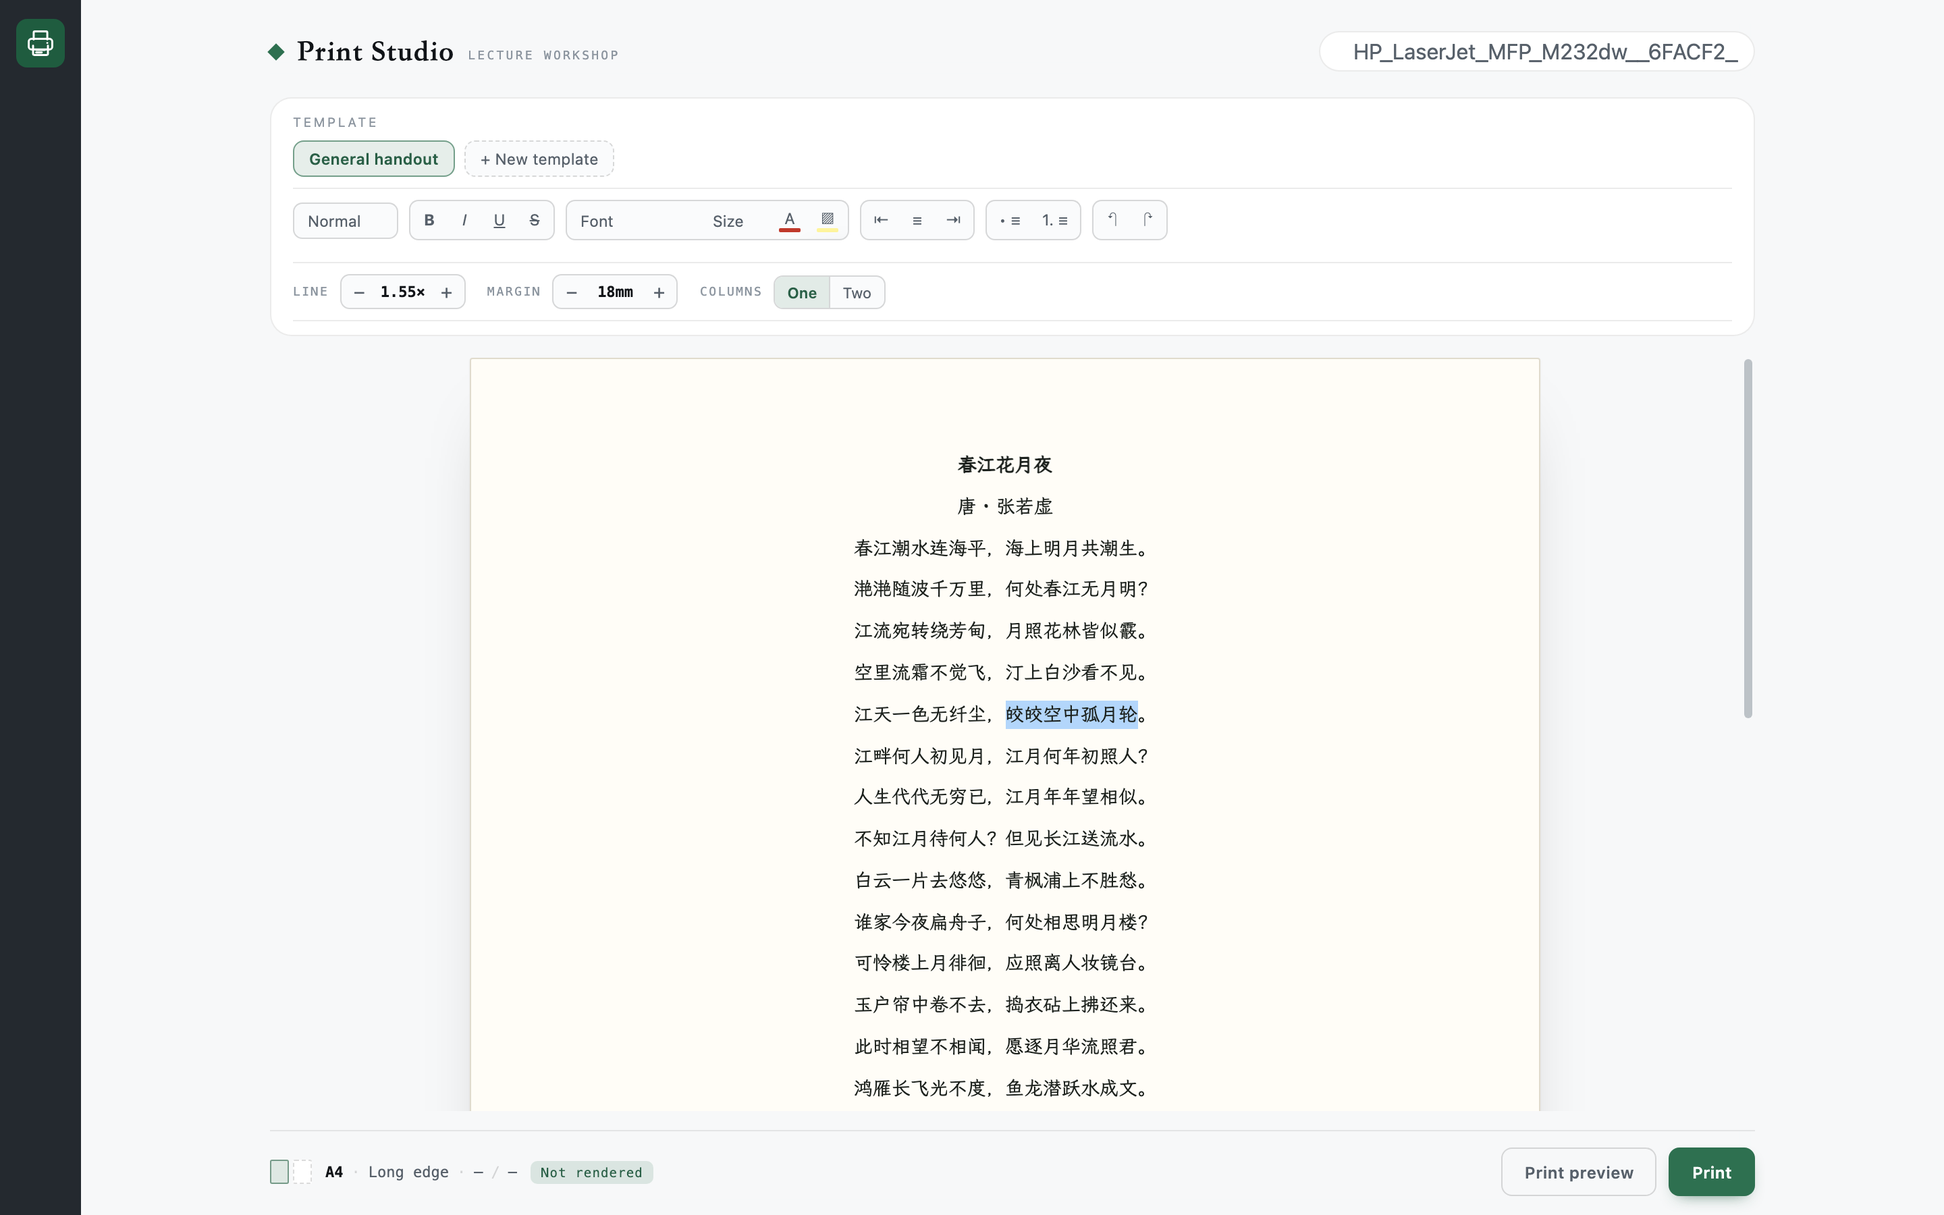
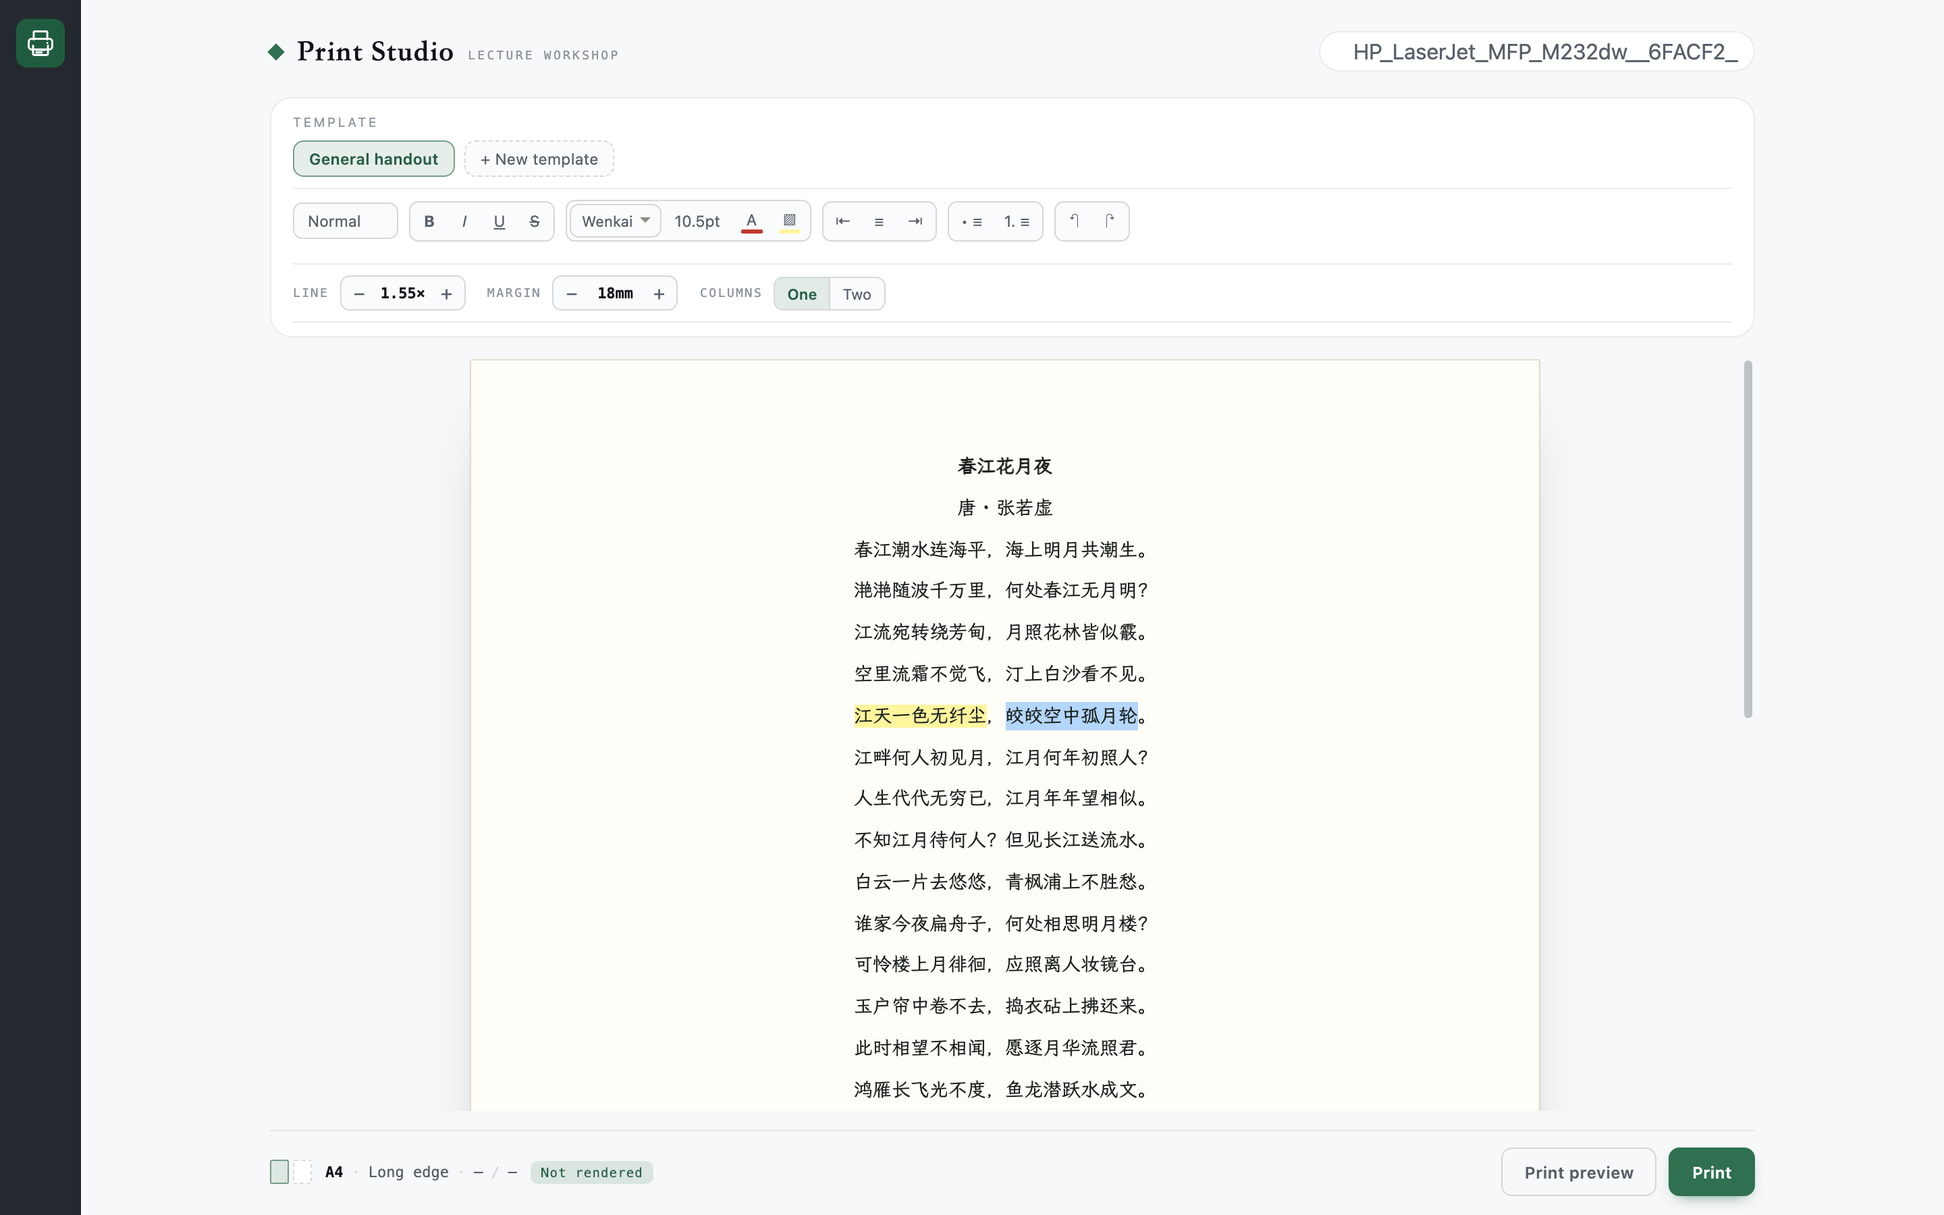
fix: show current font and size in the merged format controls
- font picker now shows the active font and renders each option in its own typeface
- size select shows the current pt; both apply to the selection when present, else the document default
- allow the popover group to overflow so the font and swatch popovers are no longer clipped
- refresh zh/en screenshots and README wording; add design note

diff --git a/lib/client.js b/lib/client.js
@@ -551,6 +551,31 @@ window.__ModuleLoader__.load({
       }
     }
 
+    /** 归一化 font-family 列表，用于把计算样式映射回预设字体键。 */
+    function normalizeFamilyList(families) {
+      return String(families ?? "")
+        .toLowerCase()
+        .replace(/["']/g, "")
+        .replace(/\s*,\s*/g, ",")
+        .replace(/\s+/g, " ")
+        .trim();
+    }
+
+    /**
+     * 把 getComputedStyle().fontFamily 映射回某个预设字体键；对不上就返回第一个家族名。
+     * @param {string} families
+     * @returns {string} 预设键（wenkai/song/kaiti/system）或具体家族名
+     */
+    function matchPresetFont(families) {
+      const norm = normalizeFamilyList(families);
+      if (!norm) return "";
+      for (const key of ["wenkai", "song", "kaiti", "system"]) {
+        if (norm === normalizeFamilyList(paperFontStack(key))) return key;
+      }
+      const first = String(families ?? "").split(",")[0].replace(/["']/g, "").trim();
+      return first || "";
+    }
+
     /* ============================== 富文本转义引擎 ============================== */
 
     /**
@@ -1075,6 +1100,8 @@ window.__ModuleLoader__.load({
   border: 1px solid var(--dsw-alias-border-l2); border-radius: 7px;
   background: var(--dsw-alias-bg-layer-2); overflow: hidden; padding: 2px;
 }
+/* 含浮层（字体下拉、色板）的分组不能裁切，否则浮层会被组边框剪掉 */
+.ddoc-ribbon-grp--pop { overflow: visible; }
 .ddoc-ribbon-btn {
   appearance: none; border: 0; background: none; cursor: pointer; user-select: none;
   padding: 4px 7px; border-radius: 5px; font-size: 11.5px; line-height: 1.2;
@@ -1853,7 +1880,7 @@ window.__ModuleLoader__.load({
         );
       }
 
-      function FontPicker({ value, onChange, options, aliases }) {
+      function FontPicker({ value, onChange, options, aliases, presets = [] }) {
         const [open, setOpen] = useState(false);
         const [filter, setFilter] = useState("");
         const [active, setActive] = useState(0);
@@ -1893,6 +1920,13 @@ window.__ModuleLoader__.load({
 
         const filtered = useMemo(() => options.filter((name) => matches(name)), [options, matches]);
 
+        // 最近使用里可能残留旧的预设键，预设单独成节渲染，这里过滤掉避免重复
+        const recentList = useMemo(() => recent.filter((name) => !presets.includes(name)), [recent, presets]);
+        const showExtras = !filter;
+        const baseOffset = showExtras
+          ? (presets.length > 0 ? 1 + presets.length : 0) + (recentList.length > 0 ? 2 + recentList.length : 0)
+          : 0;
+
         // 键盘选中项越界时回到首行
         useEffect(() => {
           setActive((current) => (current < filtered.length ? current : 0));
@@ -1916,7 +1950,7 @@ window.__ModuleLoader__.load({
         const commit = (name) => {
           if (!name) return;
           onChange(name);
-          saveRecent(name);
+          if (!presets.includes(name)) saveRecent(name);
           close();
         };
 
@@ -1986,29 +2020,50 @@ window.__ModuleLoader__.load({
                   },
                   onKeyDown,
                 }),
-                filtered.length === 0
+                filtered.length === 0 && (filter || presets.length === 0)
                   ? h("div", { className: "ddoc-font-empty" }, t("font.noMatch"))
                   : h(
                       "ul",
                       { className: "ddoc-font-list", ref: listRef },
-                      !filter && recent.length > 0
+                      showExtras && presets.length > 0
+                        ? [
+                            h("li", { key: "header-preset", className: "ddoc-font-header" }, t("font.presetGroup")),
+                            ...presets.map((name) =>
+                              h(
+                                "li",
+                                {
+                                  key: `preset:${name}`,
+                                  "data-font-key": name,
+                                  className: [value === name ? "on" : ""].filter(Boolean).join(" "),
+                                  title: t(`font.${name}`),
+                                  onClick: () => commit(name),
+                                },
+                                h(
+                                  "span",
+                                  { className: "ddoc-font-name", style: { fontFamily: paperFontStack(name) } },
+                                  t(`font.${name}`),
+                                ),
+                              ),
+                            ),
+                          ]
+                        : null,
+                      showExtras && recentList.length > 0
                         ? [
                             h("li", { key: "header-recent", className: "ddoc-font-header" }, t("font.recent")),
-                            ...recent.map((name, i) => {
+                            ...recentList.map((name, i) => {
                               const hint = hintOf(name);
-                              const idx = i;
                               return h(
                                 "li",
                                 {
                                   key: name,
-                                  className: [name === value ? "on" : "", idx === active ? "active" : ""]
+                                  className: [name === value ? "on" : "", i === active ? "active" : ""]
                                     .filter(Boolean)
                                     .join(" "),
                                   title: hint ? `${name} · ${hint}` : name,
-                                  onMouseEnter: () => setActive(idx),
+                                  onMouseEnter: () => setActive(i),
                                   onClick: () => commit(name),
                                 },
-                                h("span", { className: "ddoc-font-name" }, name),
+                                h("span", { className: "ddoc-font-name", style: { fontFamily: paperFontStack(name) } }, name),
                                 hint ? h("span", { className: "ddoc-font-hint" }, hint) : null,
                               );
                             }),
@@ -2017,7 +2072,7 @@ window.__ModuleLoader__.load({
                         : null,
                       filtered.map((name, index) => {
                         const hint = hintOf(name);
-                        const actualIndex = !filter && recent.length > 0 ? index + recent.length + 2 : index;
+                        const actualIndex = baseOffset + index;
                         return h(
                           "li",
                           {
@@ -2029,7 +2084,7 @@ window.__ModuleLoader__.load({
                             onMouseEnter: () => setActive(actualIndex),
                             onClick: () => commit(name),
                           },
-                          h("span", { className: "ddoc-font-name" }, name),
+                          h("span", { className: "ddoc-font-name", style: { fontFamily: paperFontStack(name) } }, name),
                           hint ? h("span", { className: "ddoc-font-hint" }, hint) : null,
                         );
                       }),
@@ -2235,6 +2290,9 @@ window.__ModuleLoader__.load({
       const lastRangeRef = useRef(null);
       const [hasSelection, setHasSelection] = useState(false);
       const [fmtState, setFmtState] = useState({ bold: false, italic: false, underline: false, strike: false });
+      /** 选区起始处的当前字体（预设键或家族名）与字号（pt），用于字体/字号控件显示当前值。 */
+      const [currentFont, setCurrentFont] = useState("");
+      const [currentSize, setCurrentSize] = useState(null);
       /** 预览页高度按容器实测，保证 A4 比例且不溢出。 */
       const [pvSheetH, setPvSheetH] = useState(0);
 
@@ -2319,6 +2377,15 @@ window.__ModuleLoader__.load({
           if (inside && !r.isCollapsed) {
             lastRangeRef.current = r.cloneRange();
             setHasSelection(true);
+            // 读选区起始处的字体/字号，让控件显示当前值
+            let node = r.startContainer;
+            if (node && node.nodeType === 3) node = node.parentElement;
+            if (node && node.nodeType === 1) {
+              const cs = window.getComputedStyle(node);
+              setCurrentFont(matchPresetFont(cs.fontFamily));
+              const pxSize = parseFloat(cs.fontSize);
+              setCurrentSize(Number.isFinite(pxSize) ? Math.round(pxSize * 0.75 * 2) / 2 : null);
+            }
           } else if (inside) {
             setHasSelection(false);
           }
@@ -2732,6 +2799,13 @@ window.__ModuleLoader__.load({
       const lineHeight = styleDraft?.lineHeight ?? activeTemplate?.lineHeight ?? 1.55;
       const columns = styleDraft?.columns ?? activeTemplate?.columns ?? 1;
 
+      /** 字体/字号控件显示值：有选区显示选区当前值，否则显示整篇默认。 */
+      const fontDisplayValue = hasSelection && currentFont ? currentFont : (styleDraft?.font ?? "wenkai");
+      const sizeDisplayValue = hasSelection && currentSize ? currentSize : (styleDraft?.fontSize ?? fontSize);
+      const sizeOptionValues = Array.from(
+        new Set([...SELECTION_FONT_SIZES, sizeDisplayValue].filter((n) => Number.isFinite(n))),
+      ).sort((a, b) => a - b);
+
       const openZoom = useCallback((preview) => {
         setZoom({ page: preview.page, dataUrl: preview.dataUrl });
       }, []);
@@ -2984,54 +3058,36 @@ window.__ModuleLoader__.load({
                     // 2.5 字符格式：有选区时改选中文字，没有选区时改整篇默认
                     h(
                       "div",
-                      { className: "ddoc-ribbon-grp" },
-                      h(
-                        "select",
-                        {
-                          className: "ddoc-ribbon-select ddoc-sel-font",
-                          value: "",
-                          title: t("sel.fontTitle"),
-                          "aria-label": t("sel.fontTitle"),
-                          onChange: (event) => {
-                            const value = event.target.value;
-                            event.target.value = "";
-                            if (!value) return;
-                            if (hasSelection) {
-                              const family = value.startsWith("sys:") ? value.slice(4) : paperFontStack(value);
-                              applySelectionStyle({ fontFamily: family });
-                            } else {
-                              const font = value.startsWith("sys:") ? value.slice(4) : value;
-                              setStyleDraft((prev) => (prev ? { ...prev, font } : prev));
-                            }
-                          },
+                      { className: "ddoc-ribbon-grp ddoc-ribbon-grp--pop" },
+                      h(FontPicker, {
+                        value: fontDisplayValue,
+                        onChange: (value) => {
+                          if (!value) return;
+                          if (hasSelection) {
+                            applySelectionStyle({ fontFamily: paperFontStack(value) });
+                          } else {
+                            setStyleDraft((prev) => (prev ? { ...prev, font: value } : prev));
+                          }
                         },
-                        h("option", { value: "" }, t("sel.font")),
-                        SELECTION_FONT_KEYS.map((key) => h("option", { key, value: key }, t(`font.${key}`))),
-                        systemFonts.length
-                          ? h(
-                              "optgroup",
-                              { label: t("font.systemFonts") },
-                              systemFonts.map((name) => h("option", { key: `sys:${name}`, value: `sys:${name}` }, name)),
-                            )
-                          : null,
-                      ),
+                        options: systemFonts,
+                        aliases: fontAliases,
+                        presets: SELECTION_FONT_KEYS,
+                      }),
                       h(
                         "select",
                         {
                           className: "ddoc-ribbon-select ddoc-sel-size",
-                          value: "",
+                          value: String(sizeDisplayValue),
                           title: t("sel.sizeTitle"),
                           "aria-label": t("sel.sizeTitle"),
                           onChange: (event) => {
-                            const value = event.target.value;
-                            event.target.value = "";
-                            if (!value) return;
+                            const value = Number(event.target.value);
+                            if (!Number.isFinite(value) || value <= 0) return;
                             if (hasSelection) applySelectionStyle({ fontSize: `${value}pt` });
-                            else setStyleDraft((prev) => (prev ? { ...prev, fontSize: Number(value) } : prev));
+                            else setStyleDraft((prev) => (prev ? { ...prev, fontSize: value } : prev));
                           },
                         },
-                        h("option", { value: "" }, t("sel.size")),
-                        SELECTION_FONT_SIZES.map((n) => h("option", { key: n, value: String(n) }, `${n}pt`)),
+                        sizeOptionValues.map((n) => h("option", { key: n, value: String(n) }, `${n}pt`)),
                       ),
                       h(SwatchControl, {
                         title: t("sel.colorTitle"),

diff --git a/docs/font-size-display-design.md b/docs/font-size-display-design.md
@@ -1,0 +1,30 @@
+# 字体 / 字号控件显示当前值 · 设计
+
+## 背景
+
+上一版按「一个功能只留一处入口」把整篇样式和选中文字的两套字体/字号合并成一组。合并方向对，但控件是占位下拉（`value=""` 且选完即重置），收起时永远显示「字体」「字号」，看不到当前用的字体和字号。
+
+## 目标
+
+单组控件下，字体、字号各一个入口，且收起时直接显示当前值：
+
+- **字体**：自定义下拉。按钮显示当前字体名（文楷 / 宋体 / 楷体 / 黑体，或系统字体家族名）；展开后「推荐字体」每项用它本身的字体栈渲染，系统字体每项也用它自己的家族渲染，能直接看出字形差异。
+- **字号**：下拉，收起时显示当前 pt（如 `10.5pt`）。当前值不在常用档里时动态补进选项。
+- 语义保持：有选区时改选中文字；无选区时改整篇默认。
+- 显示跟随：有选区时读选区起始处的 `font-family` / `font-size`；无选区时显示整篇默认（`styleDraft.font` / `styleDraft.fontSize`）。
+
+## 实现要点
+
+1. `paperFontStack` 同层新增 `normalizeFamilyList` / `matchPresetFont`：把 `getComputedStyle().fontFamily` 映射回预设键（wenkai/song/kaiti/system），否则取首个家族名。
+2. `StudioPage` 新增 `currentFont` / `currentSize` 状态，在 `selectionchange`（非折叠、在编辑区内）里读取并更新。
+3. 字体控件复用并扩展 `FontPicker`：新增 `presets`，渲染「推荐字体」分节（每项 `data-font-key`、用 `paperFontStack` 渲染），系统字体项用自身家族渲染；`commit` 不再把预设键写进「最近使用」。
+4. 字号 `<select>` 的 `value` 绑定当前字号（字符串），选项 = 常用档 ∪ 当前值。
+5. 交互：字体 `onChange` → 有选区 `applySelectionStyle({fontFamily})`，否则 `styleDraft.font`；字号同理。
+
+## 验收
+
+- 收起状态下字体控件显示当前字体名、字号控件显示当前 pt。
+- 展开字体列表，各项以自身字体渲染。
+- 选中文字改字体/字号只改选区；无选区改整篇默认。
+- `node --test` 全绿；`scripts/verify-selection-format.mjs` 通过（字体步骤改为点选自定义下拉）。
+- 更新中/英截图。

diff --git a/README.md b/README.md
@@ -14,7 +14,7 @@ A Word-like desktop for typesetting and duplex printing handouts on local networ
 ## Highlights
 
 - **Word-like A4 desk**: write or paste directly on an authentic A4 canvas with live margins, fonts, line spacing, and column formatting.
-- **Ribbon toolbar**: headings, alignment, and lists; format only the selected text with bold/italic/underline/strikethrough, font, size, color, or highlight; whole-document size, line spacing, margins, and columns adjust in one step.
+- **Ribbon toolbar**: headings, alignment, and lists; with a selection, format bold/italic/underline/strikethrough, font, size, color, or highlight. The font and size controls show the current value and apply to the selection when there is one, otherwise set the document default; line spacing, margins, and columns adjust in one step.
 - **Verified pagination**: groups questions and options into break-safe blocks to avoid splitting questions across pages.
 - **LAN capability probing**: reads real PPD and IPP printer parameters (duplex, paper size, grayscale) and maps them cleanly without guesswork.
 - **On-demand proofing**: click **Print preview** to inspect accurate page layouts and layout rule checks rendered via Chromium CDP before committing to paper.

diff --git a/README.zh-CN.md b/README.zh-CN.md
@@ -14,7 +14,7 @@
 ## 能力
 
 - **Word 式 A4 编辑台**：直接在真实纸张视窗里书写或粘贴，页边距、字体、行距、分栏实时可见。
-- **Ribbon 工具栏**：段落样式、对齐、列表；选中文字可单独加粗/斜体/下划线/删除线、换字体字号、上色或高亮；整篇的字号行距边距分栏也一步到位。
+- **Ribbon 工具栏**：段落样式、对齐、列表；选中文字时加粗/斜体/下划线/删除线、换字体字号、上色或高亮。字体、字号控件收起时直接显示当前值，有选区改选区、无选区改整篇默认；行距、边距、分栏一处调整。
 - **渲染即校验**：编号问题与答案被锁进同一个不断开的区块，分页撕不开。
 - **打印机能力探测**：读真实 PPD / IPP 参数（双面、纸张、灰度）后精确映射，映射不了的明确报告。
 - **按需校样**：点「打印预览」看 Chromium CDP 渲染的真实分页与规则校验，确认后再出纸。

diff --git a/docs/selection-formatting-design.md b/docs/selection-formatting-design.md
@@ -1,5 +1,7 @@
 # 选中文字格式（字符级格式化）设计与实施计划
 
+> 后续更新（2026-11）：字体 / 字号已合并为单一控件，并直接显示当前值——有选区时改选区、无选区时改整篇默认（不再要求必须先选中）。详见 [font-size-display-design.md](./font-size-display-design.md)。本文 §3.2 / §3.5 中「无选区时禁用」的描述以新文档为准。
+
 ## 1. 目标
 在 Word 式纸面编辑区里，选中一段文字后可以只改这一段：加粗 / 斜体 / 下划线 / 删除线、字体、字号、文字颜色、背景高亮。屏幕所见即打印所得。
 
